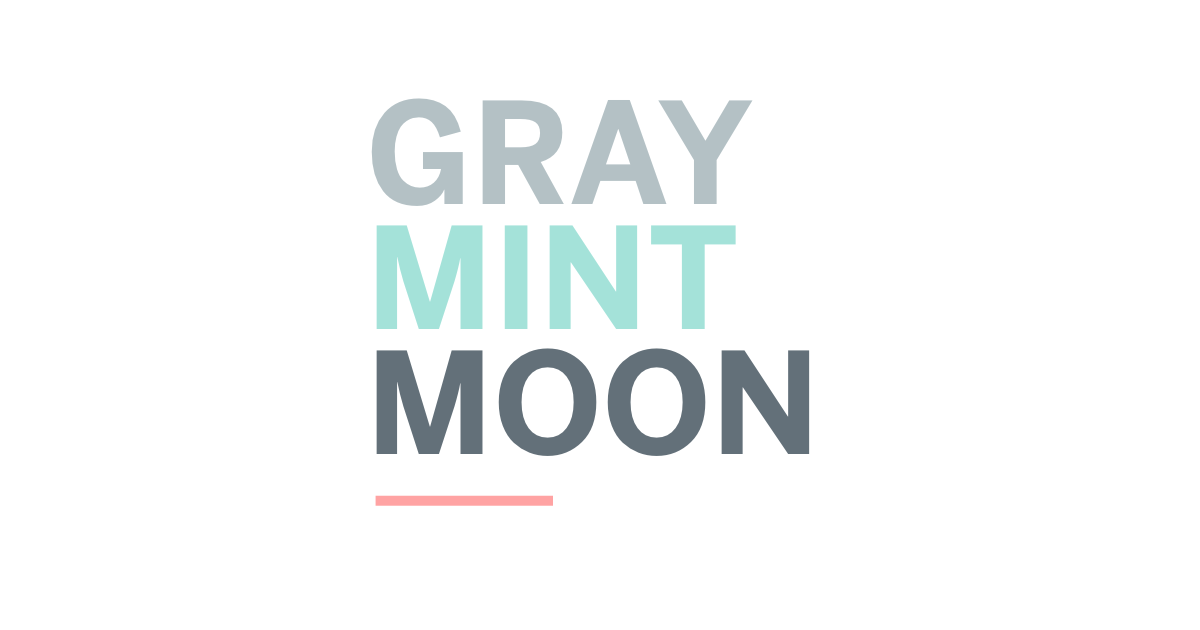
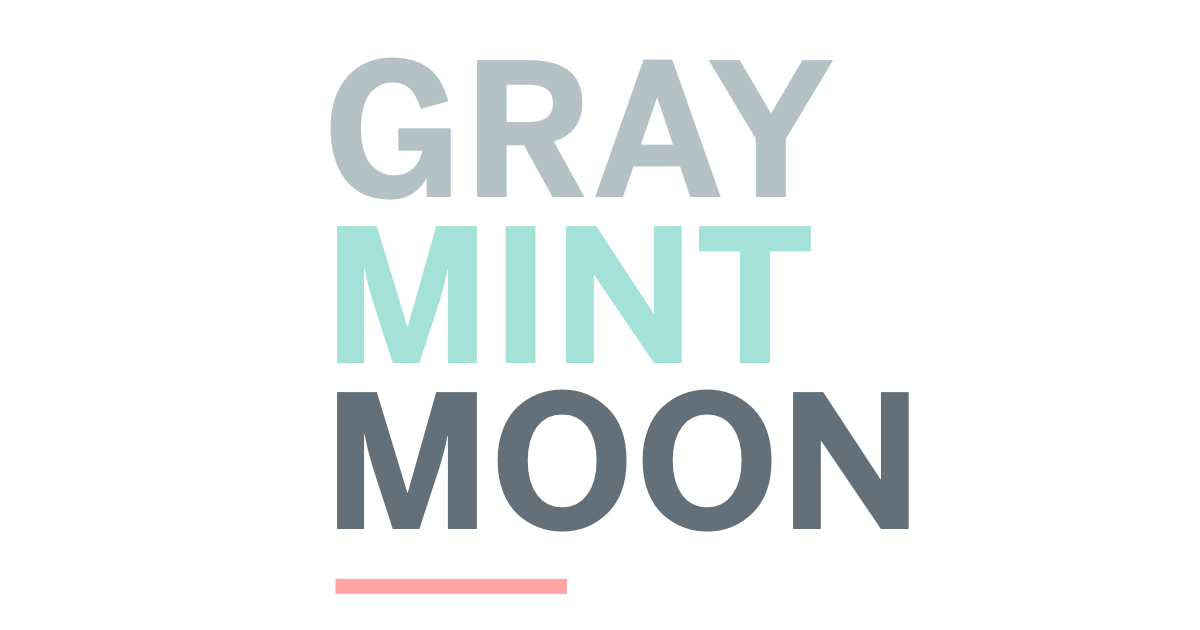
update og

Changed region(s): [[0.2775, 0.0905, 0.7708, 0.8444], [0.2775, 0.9048, 0.4933, 0.9651]]

diff --git a/_includes/head.html b/_includes/head.html
@@ -12,7 +12,7 @@
 		<meta property="og:title" content="{{site.title}}">
 		<meta property="og:type" content="website">
 		<meta property="og:description" content="{{site.mission}}">
-		<meta property="og:image" content="http://graymintmoon.com/assets/graymintmoon_logo.png">
+		<meta property="og:image" content="http://graymintmoon.com/assets/gray_mint_moon.png">
 		<meta property="og:image:width" content="1200"/>
 		<meta property="og:image:height" content="630"/>
 		<meta property="og:url" content="http://graymintmoon.com">
